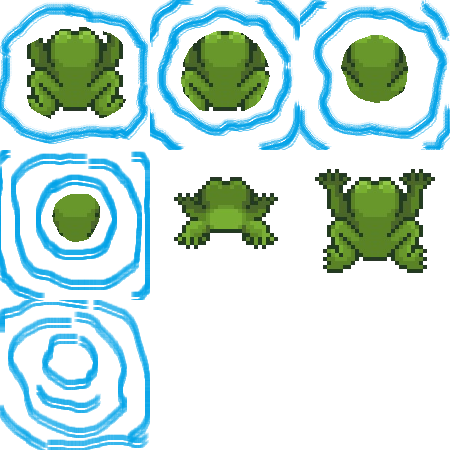
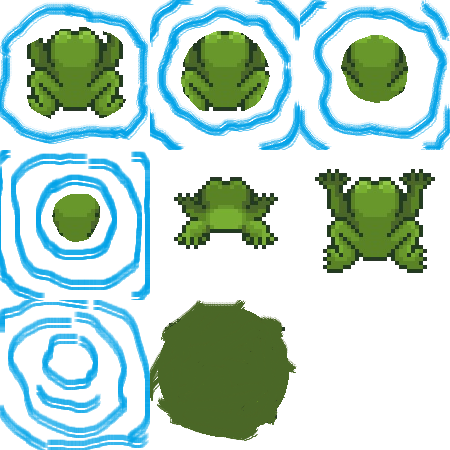
animated frog dying from car

Changed region(s): [[0.3111, 0.6533, 0.6533, 0.9956]]

diff --git a/core/src/com/frogger/game/Frog.java b/core/src/com/frogger/game/Frog.java
@@ -26,6 +26,7 @@ public class Frog {
 
     private static final Texture FROG_PACK = new Texture(Gdx.files.internal("characters/frog/frog.png"));
 
+
     private static final TextureRegion FROG_LOOKING_UP = new TextureRegion(FROG_PACK, 300, 150, 150, 150);
     private static final TextureRegion FROG_JUMPING_UP = new TextureRegion(FROG_PACK, 150, 150, 150, 150);
 
@@ -34,6 +35,7 @@ public class Frog {
     private static final TextureRegion FROG_DROWNING_UP_3 = new TextureRegion(FROG_PACK, 300, 0, 150, 150);
     private static final TextureRegion FROG_DROWNING_UP_4 = new TextureRegion(FROG_PACK, 0, 150, 150, 150);
     private static final TextureRegion FROG_DROWNING_UP_5 = new TextureRegion(FROG_PACK, 0, 300, 150, 150);
+    private static final TextureRegion FROG_DEAD = new TextureRegion(FROG_PACK, 150, 300, 150, 150);
 
 
     /** initialize fields for movement mechanic  */
@@ -46,6 +48,7 @@ public class Frog {
     private int animationFrameCount = 0;
     private boolean moveToTheWall = false;
     private boolean goingToDrown = false;
+    private boolean goingToDie = false;
 
     /** initialize fields for movement mechanic on logs  */
     private boolean onLog = false;
@@ -85,6 +88,7 @@ public class Frog {
         isMoving = false;
         moveToTheWall = false;
         goingToDrown = false;
+        goingToDie = false;
     }
 
     public void render(SpriteBatch batch) {
@@ -101,24 +105,36 @@ public class Frog {
      * @param dt delta time
      */
     public void update(float dt) {
-        
+
         Row[] rows = FroggerGameScreen.level.getMap().getRows();
         Tile[][] tiles = FroggerGameScreen.level.getMap().getTiles();
         int nColumns = FroggerGameScreen.level.getMap().getnColumns();
 
         // check for collision with car
-        if (rows[tile.getROW()].getType() == TypeOfRow.CAR && !isMoving) {
-            for (MovingObject car: rows[tile.getROW()].getMovingObjects()) {
-                if (car.checkCollision(this)) alive = false;
+        if (rows[tile.getROW()].getType() == TypeOfRow.CAR) {
+            for (MovingObject car : rows[tile.getROW()].getMovingObjects()) {
+                if (car.checkCollision(this)) {
+                    if (!goingToDie) {
+                        goingToDie = true;
+                        startedMovingTime = TimeUtils.nanoTime();
+                    }
+                    animateDying();
+                }
             }
-            for (MovingObject car: rows[tile.getROW() - 1].getMovingObjects()) {
-                if (car.checkCollision(this)) alive = false;
+            for (MovingObject car : rows[tile.getROW() - 1].getMovingObjects()) {
+                if (car.checkCollision(this)) {
+                    if (!goingToDie) {
+                        goingToDie = true;
+                        startedMovingTime = TimeUtils.nanoTime();
+                    }
+                    animateDying();
+                }
             }
         }
 
         // check for collision with train
-        if (rows[tile.getROW()].getType() == TypeOfRow.TRAIN  && !isMoving) {
-            for (MovingObject train: rows[tile.getROW()].getMovingObjects()) {
+        if (rows[tile.getROW()].getType() == TypeOfRow.TRAIN && !isMoving) {
+            for (MovingObject train : rows[tile.getROW()].getMovingObjects()) {
                 if (train.checkCollision(this)) alive = false;
             }
         }
@@ -134,7 +150,7 @@ public class Frog {
 
                 drown();
             }
-            if (x < tiles[0][0].getX() - tiles[0][0].getSize()*0.5f || x > tiles[0][nColumns - 1].getX() + tiles[0][0].getSize()*0.5f && !isMoving) {
+            if (x < tiles[0][0].getX() - tiles[0][0].getSize() * 0.5f || x > tiles[0][nColumns - 1].getX() + tiles[0][0].getSize() * 0.5f && !isMoving) {
                 alive = false;
             }
             if (log.getDirection() == Direction.RIGHT) {
@@ -145,42 +161,40 @@ public class Frog {
         }
 
         // movement mechanics
-        if (isMoving) {
+        if (!goingToDie) {
+            if (isMoving) {
 
-            if (movingDirection == Direction.UP) {
-                animateMovingUp();
-            } else if (movingDirection == Direction.DOWN) {
-                animateMovingDown();
-            } else if (movingDirection == Direction.RIGHT) {
-                animateMovingRight();
-            } else if (movingDirection == Direction.LEFT) {
-                animateMovingLeft();
-            }
+                if (movingDirection == Direction.UP) {
+                    animateMovingUp();
+                } else if (movingDirection == Direction.DOWN) {
+                    animateMovingDown();
+                } else if (movingDirection == Direction.RIGHT) {
+                    animateMovingRight();
+                } else if (movingDirection == Direction.LEFT) {
+                    animateMovingLeft();
+                }
 
-        } else {
+            } else {
 
-            // MOVE RIGHT
-            if(Gdx.input.isKeyPressed(Input.Keys.RIGHT) || Gdx.input.isKeyPressed(Input.Keys.D))
-            {
-                moveRight();
-            }
+                // MOVE RIGHT
+                if (Gdx.input.isKeyPressed(Input.Keys.RIGHT) || Gdx.input.isKeyPressed(Input.Keys.D)) {
+                    moveRight();
+                }
 
-            // MOVE LEFT
-            else if(Gdx.input.isKeyPressed(Input.Keys.LEFT) || Gdx.input.isKeyPressed(Input.Keys.A))
-            {
-                moveLeft();
-            }
+                // MOVE LEFT
+                else if (Gdx.input.isKeyPressed(Input.Keys.LEFT) || Gdx.input.isKeyPressed(Input.Keys.A)) {
+                    moveLeft();
+                }
 
-            // MOVE UP
-            else if (Gdx.input.isKeyPressed(Input.Keys.UP) || Gdx.input.isKeyPressed(Input.Keys.W))
-            {
-                moveUp();
-            }
+                // MOVE UP
+                else if (Gdx.input.isKeyPressed(Input.Keys.UP) || Gdx.input.isKeyPressed(Input.Keys.W)) {
+                    moveUp();
+                }
 
-            // MOVE DOWN
-            else if(Gdx.input.isKeyPressed(Input.Keys.DOWN) || Gdx.input.isKeyPressed(Input.Keys.S))
-            {
-                moveDown();
+                // MOVE DOWN
+                else if (Gdx.input.isKeyPressed(Input.Keys.DOWN) || Gdx.input.isKeyPressed(Input.Keys.S)) {
+                    moveDown();
+                }
             }
         }
     }
@@ -409,7 +423,7 @@ public class Frog {
      */
     private boolean checkIfLandsOnLog(MovingObject log, int i) {
 
-        float coef = 0f;
+        float coef;
 
         if (log.getDirection() == Direction.LEFT){
              coef = -0.3f*size;
@@ -692,6 +706,13 @@ public class Frog {
             } else {
                 animateDrowning();
             }
+        }
+    }
+
+    private void animateDying(){
+        texture = FROG_DEAD;
+        if (TimeUtils.nanoTime() - startedMovingTime > MOVE_TIME) {
+            alive = false;
         }
     }
 

diff --git a/core/src/com/frogger/game/objects/MovingObject.java b/core/src/com/frogger/game/objects/MovingObject.java
@@ -57,7 +57,7 @@ public class MovingObject {
     }
 
     public boolean checkCollision(Frog frog) {
-        return (frog.getX() + frog.getSize()) >= x && frog.getX() <= (x + size * length) &&
+        return (frog.getX() + frog.getSize()) >= x + 0.3f*size && frog.getX() <= (x + size * length - 0.3f*size ) &&
                 frog.getY() >= y && (frog.getY() + frog.getSize()) <= (y + size);
     }
 
